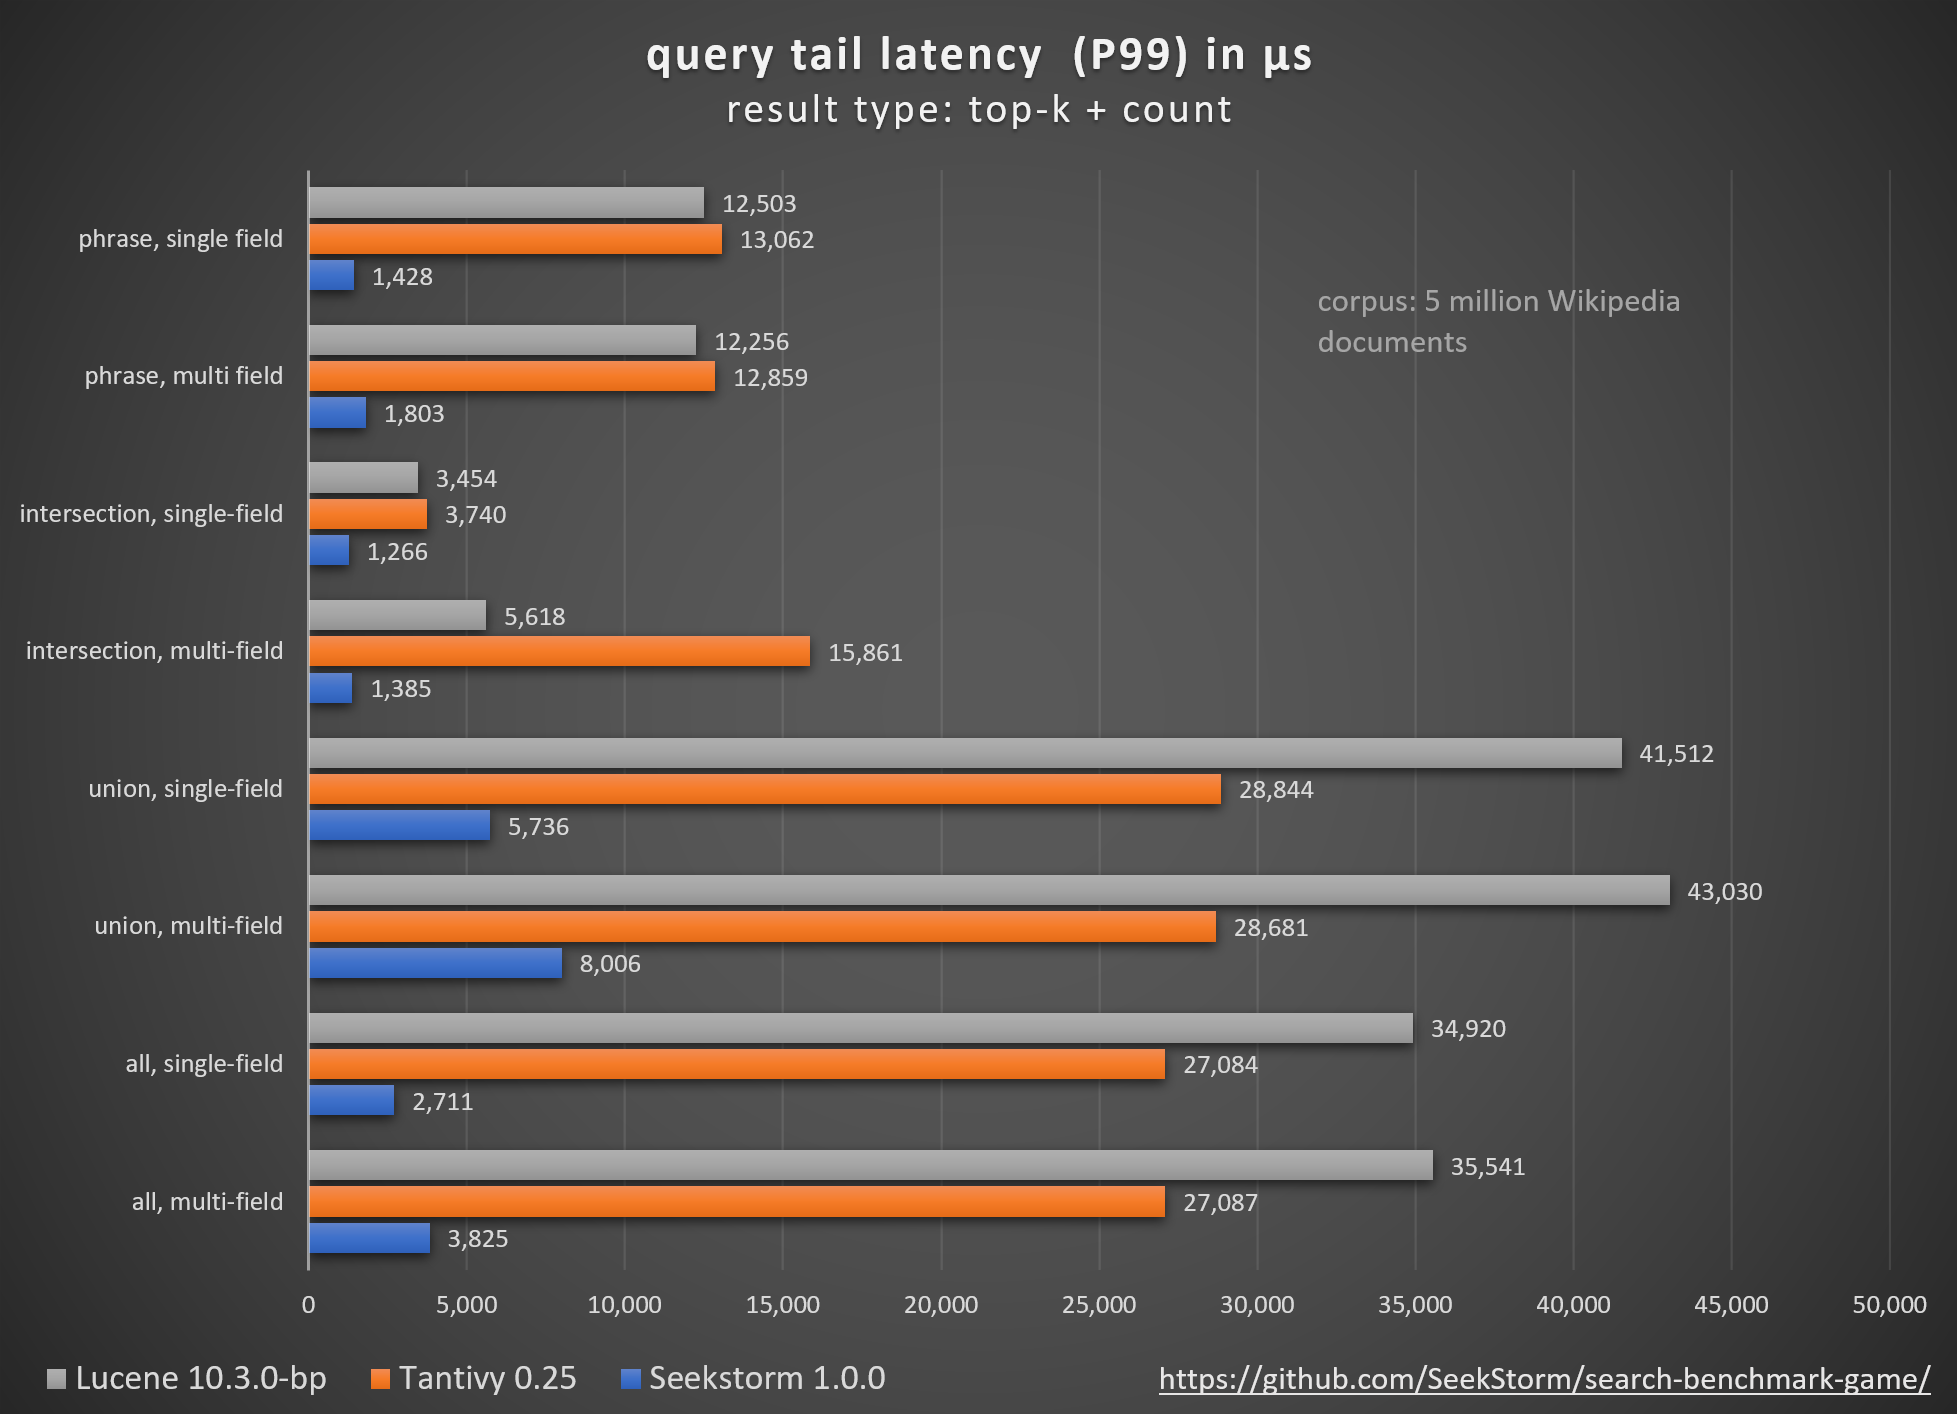
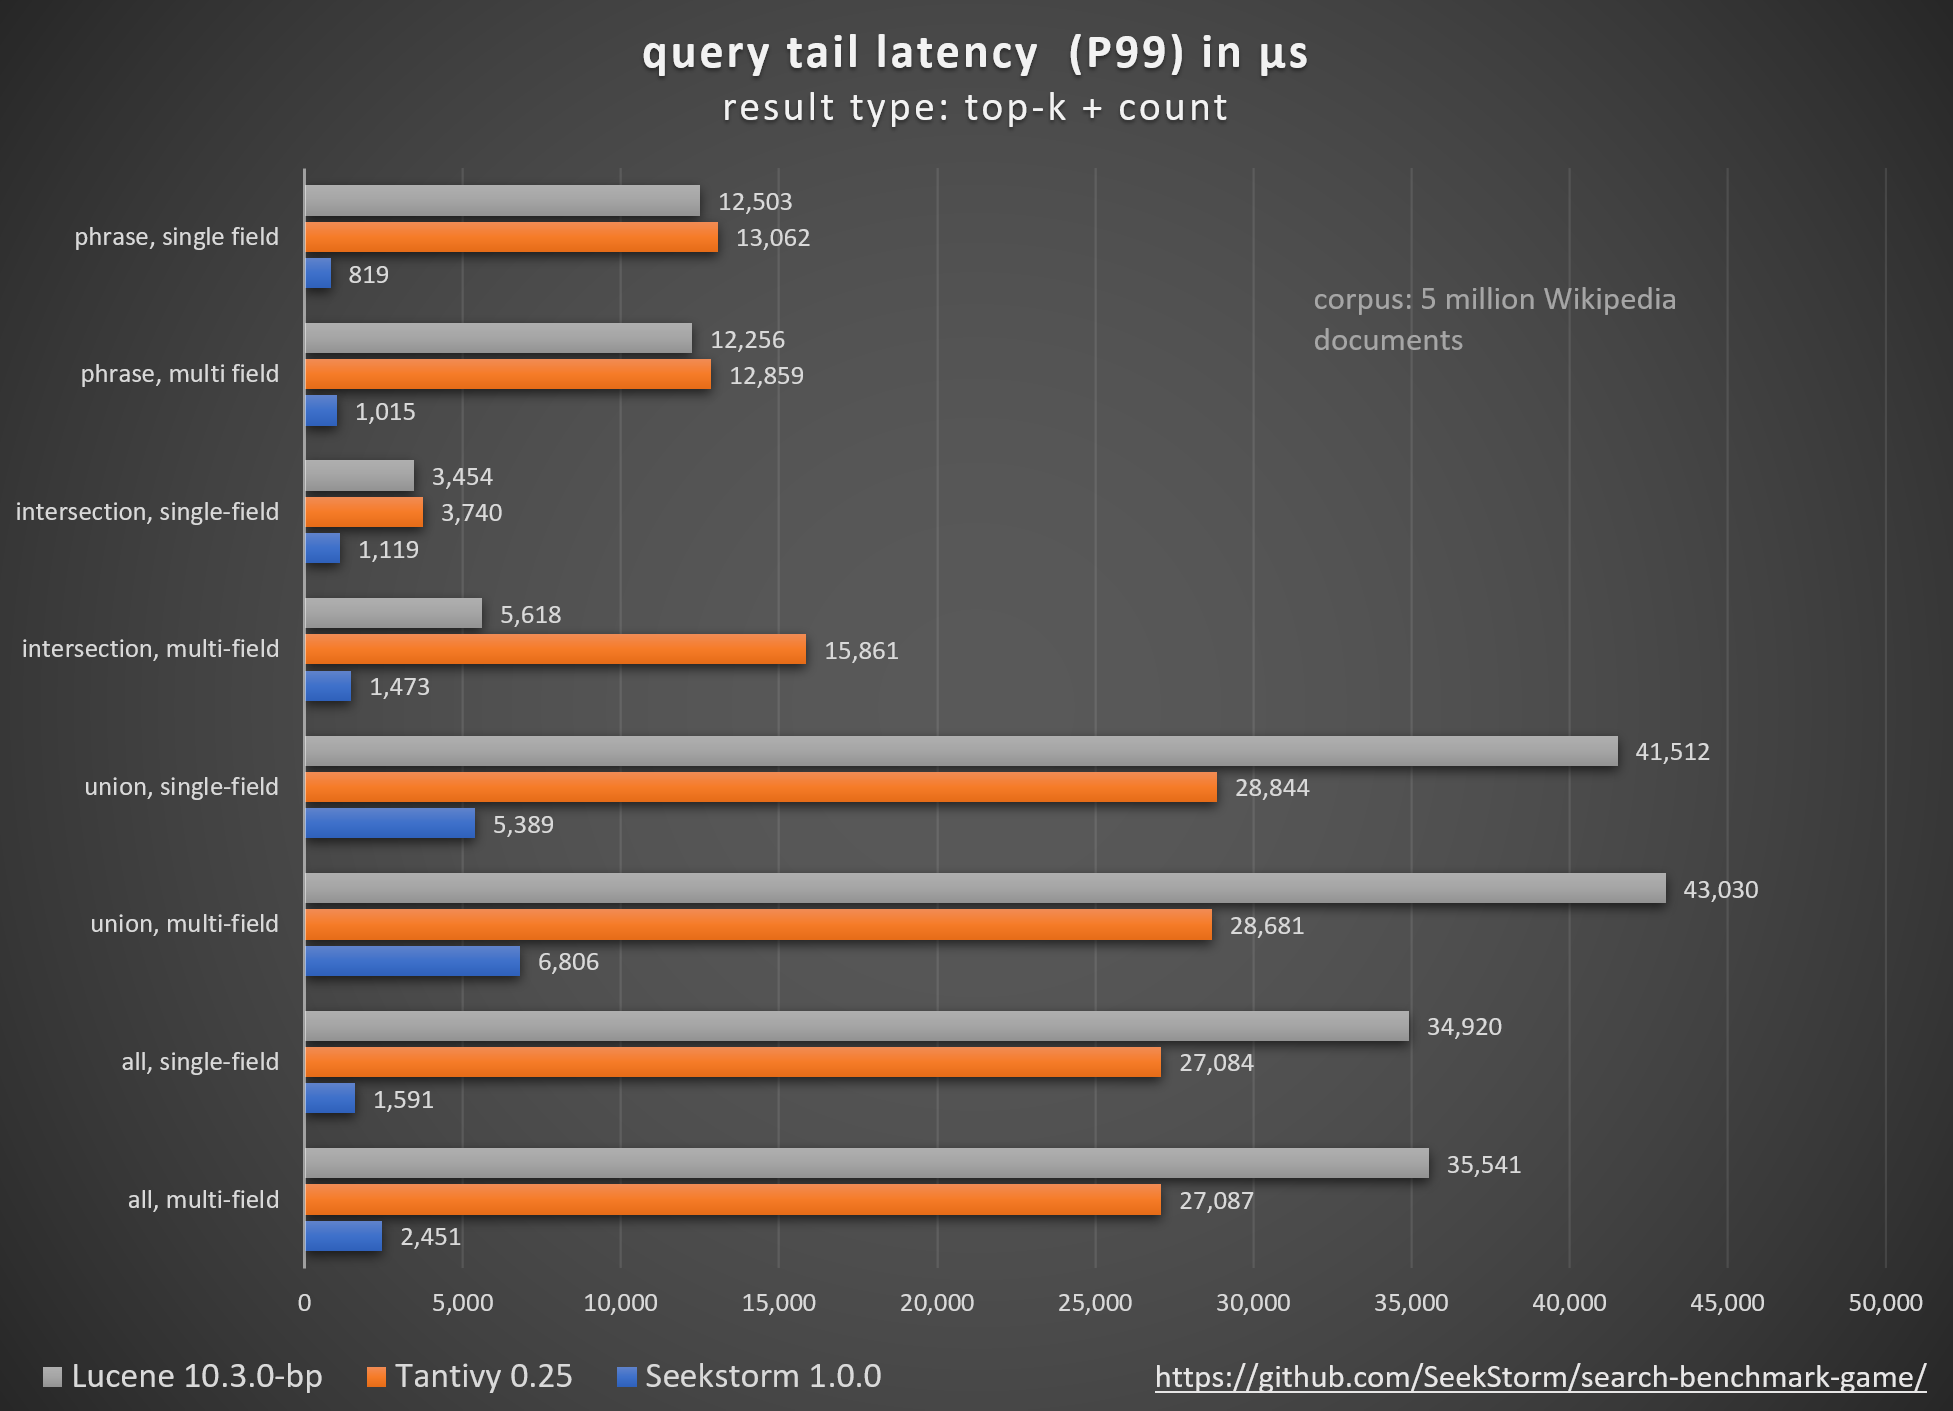
benchmark results updated

diff --git a/README.md b/README.md
@@ -32,7 +32,7 @@ Blog Posts: [SeekStorm is now Open Source](https://seekstorm.com/blog/sneak-peek
 * Full-text lexical search
 * True real-time search, with negligible performance impact
 * Incremental indexing
-* *Fast* sharded search: [6x faster query latency, 10x faster tail latency (P99)](#benchmarks).
+* *Fast* sharded search: [7x faster query latency, 17x faster tail latency (P99)](#benchmarks).
 * *Fast* sharded indexing: 35K docs/sec = 3 billion docs/day on a laptop.
 * Unlimited field number, field length & index size
 * Compressed document store: ZStandard
